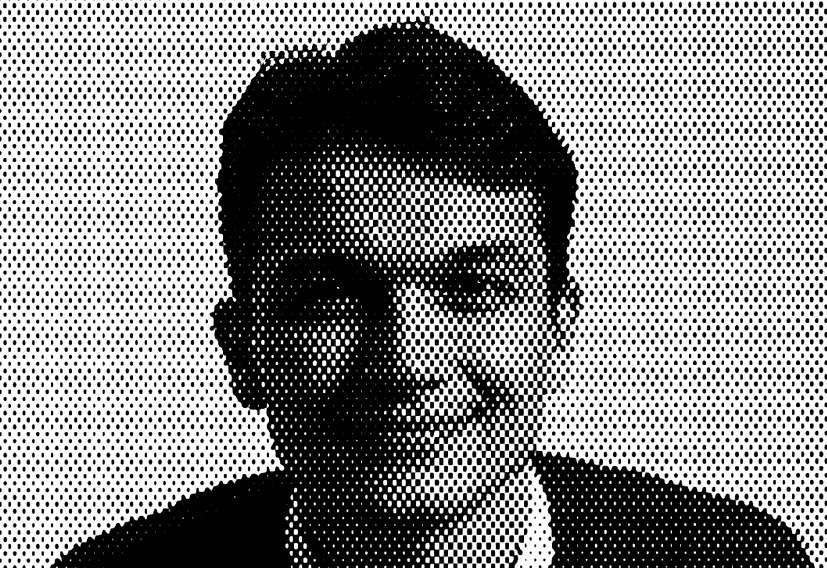
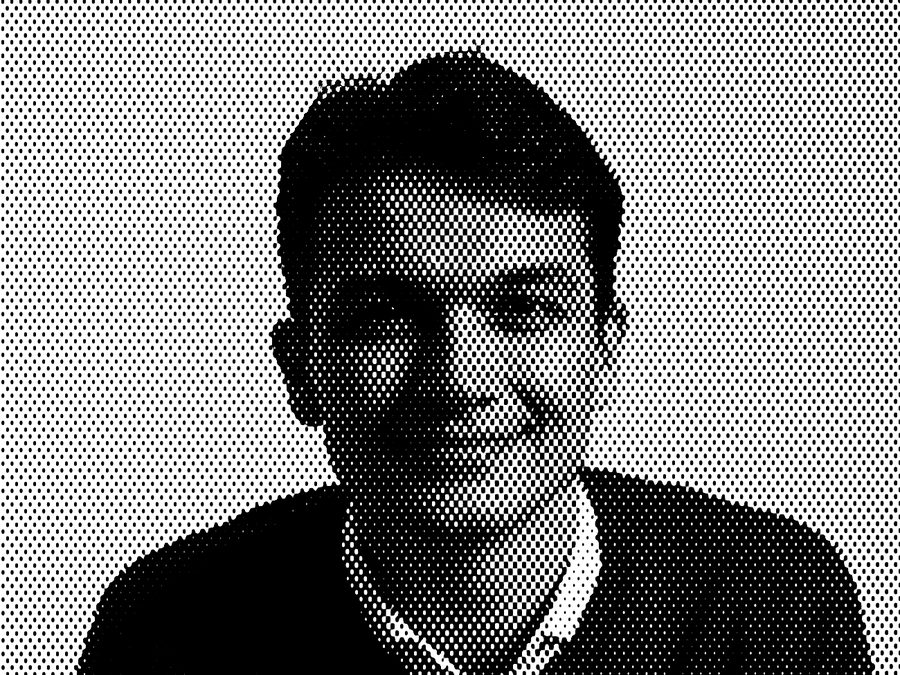
Equipa: novas fotografias, mesmo corte 4:3
Claude-Session: https://claude.ai/code/session_01ApYexi4H1skzFppsKTu8ea

diff --git a/index.html b/index.html
@@ -310,22 +310,22 @@
     <h2 id="t-equipa" class="caps t-l" style="max-width: 28ch;">Quatro pessoas. Quem vai à reunião é quem faz o trabalho.</h2>
     <div class="team">
       <div class="person">
-        <img src="assets/img/equipa-cristian.jpg" width="827" height="568" loading="lazy" alt="Retrato de Cristian Briceag">
+        <img src="assets/img/equipa-cristian.jpg" width="900" height="675" loading="lazy" alt="Retrato de Cristian Briceag">
         <div><span class="name">Cristian Briceag</span><span class="role">Estratégia e posicionamento</span></div>
         <p>Diretor de operações de uma organização cívica que cresceu de 3 para mais de 30 pessoas, em 3 continentes. Jurista, especializado em fiscalidade e gestão.</p>
       </div>
       <div class="person">
-        <img src="assets/img/equipa-rafael.jpg" width="826" height="620" loading="lazy" alt="Retrato de Rafael Magalhães Vilela">
+        <img src="assets/img/equipa-rafael.jpg" width="900" height="675" loading="lazy" alt="Retrato de Rafael Magalhães Vilela">
         <div><span class="name">Rafael Magalhães Vilela</span><span class="role">Arquitetura e produto</span></div>
         <p>Arquiteto, licenciado e mestre pela Universidade de Lisboa. Há mais de seis anos em coordenação técnica de projetos e due diligence de imóveis. Acompanha obra, do desenho à execução.</p>
       </div>
       <div class="person">
-        <img src="assets/img/equipa-justino.jpg" width="900" height="683" loading="lazy" alt="Retrato de João Justino">
+        <img src="assets/img/equipa-justino.jpg" width="900" height="675" loading="lazy" alt="Retrato de João Justino">
         <div><span class="name">João Justino</span><span class="role">Direção criativa e design</span></div>
         <p>Nove anos de branding, com dezenas de projetos e clientes na Europa. Mestrado pela Aalto, na Finlândia. Dá aulas como convidado na Universidade de Évora.</p>
       </div>
       <div class="person">
-        <img src="assets/img/equipa-vagas.jpg" width="826" height="567" loading="lazy" alt="Retrato de João Vagas">
+        <img src="assets/img/equipa-vagas.jpg" width="900" height="675" loading="lazy" alt="Retrato de João Vagas">
         <div><span class="name">João Vagas</span><span class="role">Vídeo, motion e design</span></div>
         <p>Edita vídeo há quinze anos, sete deles profissionalmente. Videógrafo e motion designer, com pós-produção numa agência premiada nos Leões de Cannes.</p>
       </div>
